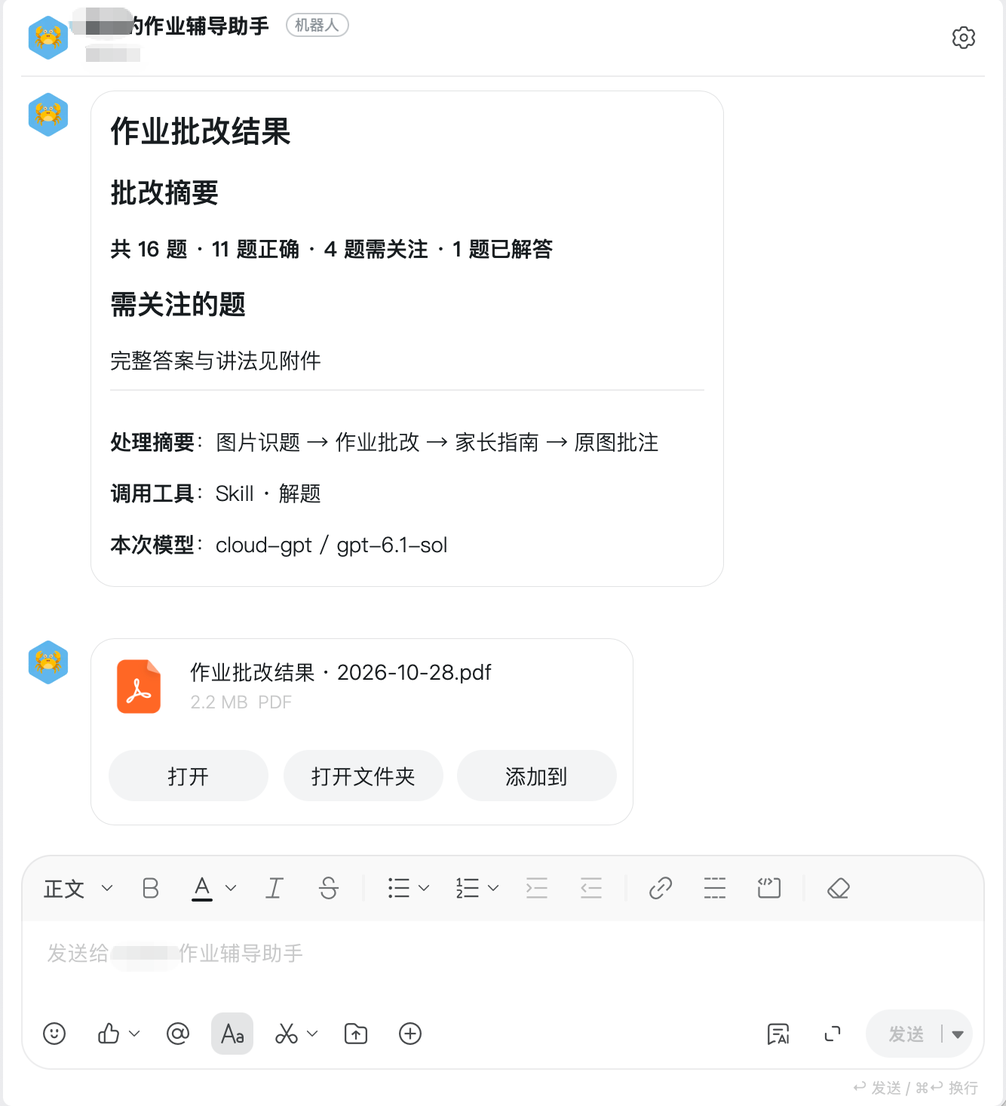
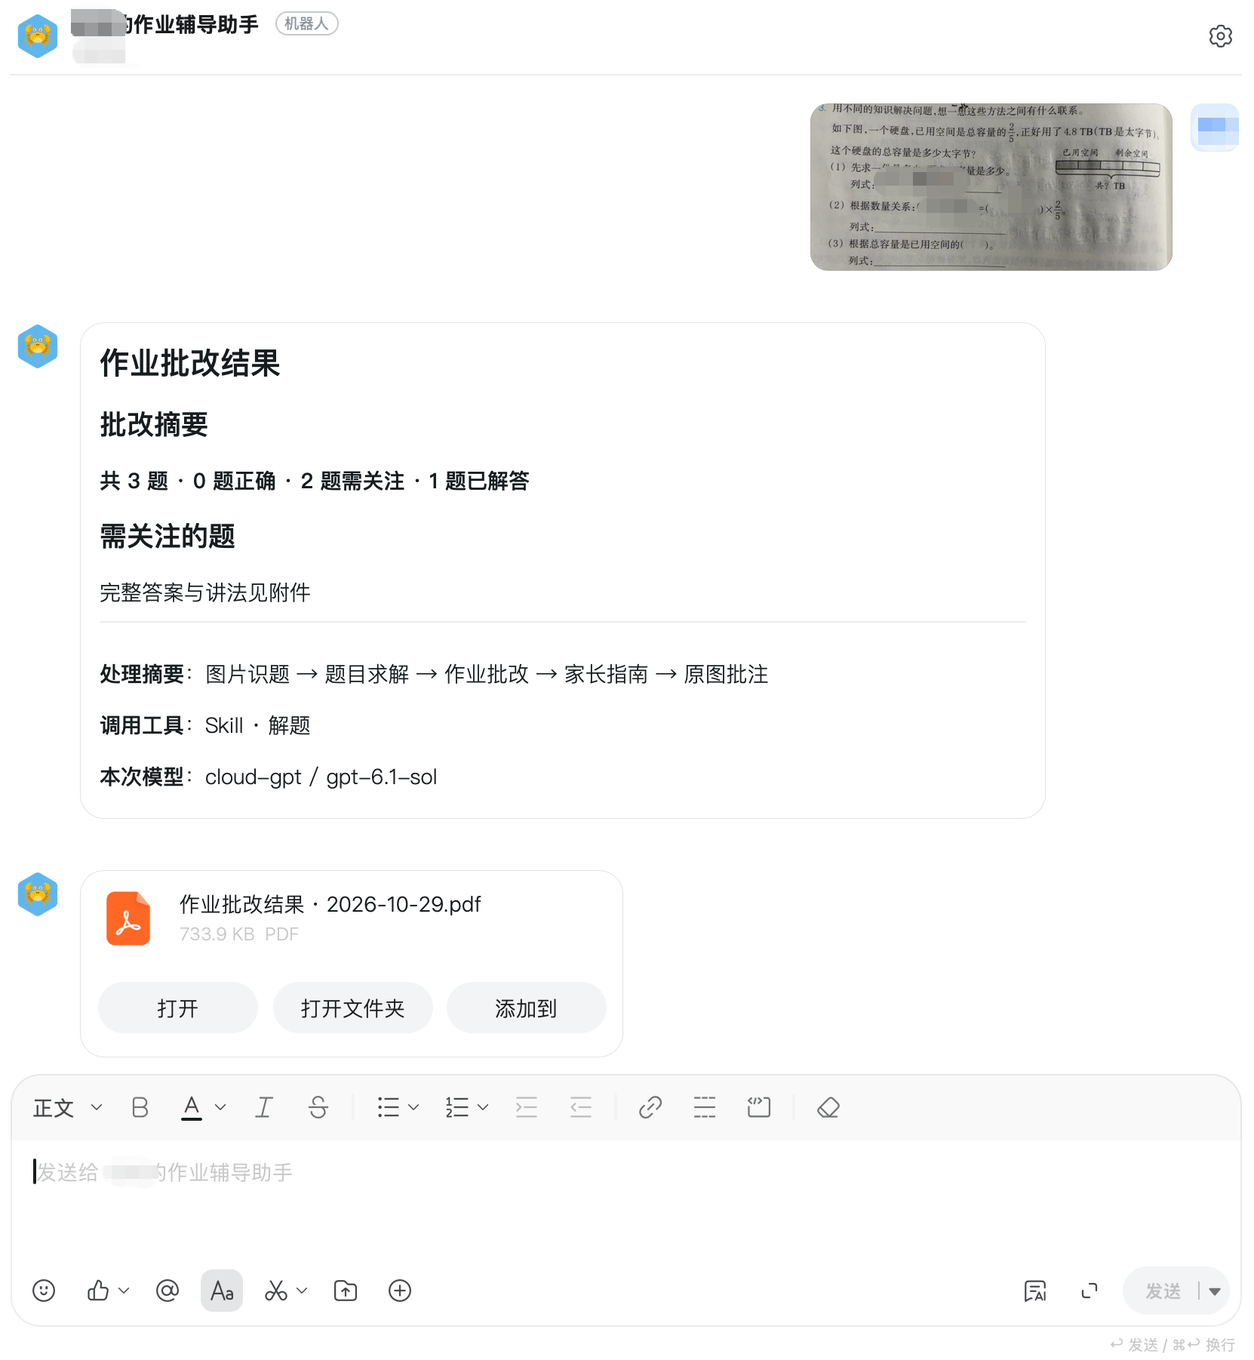
fix(blog): 更新K12批改结果与图片
按最新钉钉截图更新三语附件大小及图片尺寸，保留原图并刷新图片缓存版本。

diff --git a/ug/blog/k12-fraction-case.html b/ug/blog/k12-fraction-case.html
@@ -113,8 +113,8 @@
 </blockquote>
 <h2 style="font-size: 18px; font-weight: 700; color:var(--article-ink, #12324c); margin: 36px 0 10px; padding-bottom: 6px; border-bottom: 2px solid #5fb3ea;">ئەمەلىي جەريان: تېلېفوندا رەسىمگە تارتىپ، بىر نەچچە مىنۇتتا چۈشەندۈرۈش دوكلاتى ئېلىش</h2>
 <p style="margin: 8px 0;">كەچتە تاپشۇرۇققا يېتەكلىگەندە، ئاتا-ئانىلارنىڭ كۆپىنچىسى كومپيۇتېرنى ئېچىپ بۇيرۇق كىرگۈزۈپ ئولتۇرمايدۇ. ئەڭ تەبىئىي ھەرىكەت — تېلېفوننى ئېلىپ رەسىمگە تارتىش ۋە شەخسىي پاراڭغا ئەۋەتىش.</p>
-<p style="margin: 8px 0;">ئەمەلىي ئىشلىتىشتە، ھېشى AI ئادەتتىكى پاراڭ ماشىنىسىدەك ئالدىراپلا شۇئان تېكىست جاۋاب قايتۇرمايدۇ. تاپشۇرۇق رەسىمى ئەۋەتىلگەندىن كېيىن، ياردەمچى ئالدى بىلەن <strong>«تەكشۈرۈۋاتىدۇ…»</strong> دەپ جاۋاب بېرىدۇ. ئارقا سۇپىدىكى كۆپ باسقۇچلۇق ئويلاش تاماملانغاندىن كېيىن، DingTalk پاراڭ كۆزنىكىدە قۇرۇلمىلىق تەكشۈرۈش خۇلاسە كارتىسى كۆرۈنىدۇ ھەمدە 3.7 MB لىق يۇقىرى ئېنىقلىقتىكى چۈشەندۈرۈش PDF ھۆججىتى بىللە كېلىدۇ:</p>
-<figure style="text-align: center; margin: 18px 0 6px;"><img style="display: block; max-width: 100%; height: auto; margin: 0 auto; border: 1px solid var(--article-border, #d8e6f0); border-radius: 6px; box-sizing: border-box;" src="../../assets/blog/k12-fraction-case/dingtalk-grading.png" width="1334" height="1466" loading="lazy" decoding="async" alt="DingTalk شەخسىي پاراڭدىكى تەكشۈرۈش نەتىجىسى: تەكشۈرۈش خۇلاسىسى ۋە تاپشۇرۇق نەتىجىسى PDF قوشۇمچىسى"><figcaption style="text-align: center; font-size: 13px; color:var(--article-secondary, #5f7b9c); margin: 0 0 18px; line-height: 1.6;">DingTalk تا تاپشۇرۇۋېلىنغان دەسلەپكى نەتىجە: 3 سوئالنىڭ 2 سىگە دىققەت قىلىش كېرەك، 1 ىگە يېشىم بېرىلگەن؛ 3.7 MB لىق تولۇق چۈشەندۈرۈش دوكلاتىمۇ ھاسىل قىلىنغان.</figcaption></figure>
+<p style="margin: 8px 0;">ئەمەلىي ئىشلىتىشتە، ھېشى AI ئادەتتىكى پاراڭ ماشىنىسىدەك ئالدىراپلا شۇئان تېكىست جاۋاب قايتۇرمايدۇ. تاپشۇرۇق رەسىمى ئەۋەتىلگەندىن كېيىن، ياردەمچى ئالدى بىلەن <strong>«تەكشۈرۈۋاتىدۇ…»</strong> دەپ جاۋاب بېرىدۇ. ئارقا سۇپىدىكى كۆپ باسقۇچلۇق ئويلاش تاماملانغاندىن كېيىن، DingTalk پاراڭ كۆزنىكىدە قۇرۇلمىلىق تەكشۈرۈش خۇلاسە كارتىسى كۆرۈنىدۇ ھەمدە 733.9 KB لىق يۇقىرى ئېنىقلىقتىكى چۈشەندۈرۈش PDF ھۆججىتى بىللە كېلىدۇ:</p>
+<figure style="text-align: center; margin: 18px 0 6px;"><img style="display: block; max-width: 100%; height: auto; margin: 0 auto; border: 1px solid var(--article-border, #d8e6f0); border-radius: 6px; box-sizing: border-box;" src="../../assets/blog/k12-fraction-case/dingtalk-grading.png?v=f82de6f0872a" width="1662" height="1802" loading="lazy" decoding="async" alt="DingTalk شەخسىي پاراڭدىكى تەكشۈرۈش نەتىجىسى: تەكشۈرۈش خۇلاسىسى ۋە تاپشۇرۇق نەتىجىسى PDF قوشۇمچىسى"><figcaption style="text-align: center; font-size: 13px; color:var(--article-secondary, #5f7b9c); margin: 0 0 18px; line-height: 1.6;">DingTalk تا تاپشۇرۇۋېلىنغان دەسلەپكى نەتىجە: 3 سوئالنىڭ 2 سىگە دىققەت قىلىش كېرەك، 1 ىگە يېشىم بېرىلگەن؛ 733.9 KB لىق تولۇق چۈشەندۈرۈش دوكلاتىمۇ ھاسىل قىلىنغان.</figcaption></figure>
 <p style="margin: 8px 0;">كارتىنىڭ ئاستىدىكى بىر تەرەپ قىلىش ئىزىغا دىققەت قىلىڭ: <strong>«بىر تەرەپ قىلىش خۇلاسىسى: رەسىمدىن سوئالنى تونۇش → سوئالنى يېشىش → تاپشۇرۇقنى تەكشۈرۈش → ئاتا-ئانا قوللانمىسى → ئەسلى رەسىمگە ئىزاھلاش»</strong>. ئاستىدا مەخسۇس مەسىلە يېشىش Skill ئىشلىتىلىدۇ. بۇ نېمىشقا بىر قېتىملىق Completion نىڭ تېكىست چىقىرىشىدەك ئەمەس، بەلكى ئىككى-ئۈچ مىنۇت ئويلاشنى تەلەپ قىلىدۇ؟ چۈنكى ئارقا سۇپىدا زىچ باغلانغان بىر پۈتۈن جەريان ئىجرا بولىدۇ:</p>
 <figure style="text-align: center; margin: 18px 0 6px;"><img style="display: block; max-width: 100%; height: auto; margin: 0 auto; border-radius: 6px; box-sizing: border-box;" src="../../assets/blog/k12-fraction-case/pipeline-flow.png" width="1800" height="520" loading="lazy" decoding="async" alt="ھېشى AI نىڭ ماس قەدەمسىز تاپشۇرۇق تەكشۈرۈش جەريانى: رەسىم ئەۋەتىش، كۆرۈنۈش رايونىنى ئايرىش، چەكلىمە ئىچىدە يېشىش، ئوقۇتۇش ئۇسۇلى ھاسىل قىلىش ۋە ۋېكتورلۇق بەتلەش ئارقىلىق يەتكۈزۈش"><figcaption style="text-align: center; font-size: 13px; color:var(--article-secondary, #5f7b9c); margin: 0 0 18px; line-height: 1.6;">ئارقا سۇپىدىكى ماس قەدەمسىز جەريان: كۆپ موداللىق رايون ئايرىپ سوئال تونۇش، دەرس ئۆلچىمىگە ماس يېشىش، دەلىلگە تايانغان ئوقۇتۇش قوللانمىسى ۋە Typst ۋېكتورلۇق بەتلەش.</figcaption></figure>
 <p style="margin: 8px 0;">پۈتۈن ئىنژېنېرلىق زەنجىرى بەش قەدەمگە بۆلۈنىدۇ:</p>
@@ -123,7 +123,7 @@
 <li style="margin: 6px 0;"><strong>دەرس ئۆلچىمى چەكلىمىسىدە يېشىش ۋە قايتا تەكشۈرۈش:</strong> باشلانغۇچ مەكتەپ ئالتىنچى سىنىپ بىلىم دائىرىسىدە چەكلىنىدۇ، قەدەم ئاتلاش ياكى ئوتتۇرا مەكتەپنىڭ يۇقىرى دەرىجىلىك ئالگېبراسىنى ئىشلىتىشكە يول قويۇلمايدۇ؛ يېشىش قورالى مۇستەقىل سېلىشتۇرۇپ تەكشۈرىدۇ؛</li>
 <li style="margin: 6px 0;"><strong>تاپشۇرۇقنى باھالاش:</strong> «تەكشۈرۈش كېرەك» بىلەن «يېشىم بېرىلدى» نى ئايرىپ، بالىنىڭ يېرىم يولغىچە داۋاملاشقان ئويىنى قوغدايدۇ، مېخانىكىلىق قىزىل خاتالىق بەلگىسى قويمايدۇ؛</li>
 <li style="margin: 6px 0;"><strong>دەلىلگە تايانغان ئوقۇتۇش قوللانمىسى ھاسىل قىلىش:</strong> K12 ئوقۇتۇش Skill نى چاقىرىپ، سان بىلەن شەكىلنى باغلايدىغان سىزما ۋە سوقراتچە داۋاملىق سوئاللارنى ئاپتوماتىك ئورۇنلاشتۇرىدۇ؛</li>
-<li style="margin: 6px 0;"><strong>ئەسلى رەسىمگە ئىزاھلاش، ۋېكتورلۇق بەتلەش ۋە يەتكۈزۈش:</strong> تاپشۇرۇقنىڭ ئەسلى رەسىمىگە تەكشۈرۈش ئىزلىرىنى قويىدۇ، ئاندىن Typst بەتلەش ماتورى تېكىست بىلەن رەسىمنى 3.7 MB لىق يۇقىرى ئېنىقلىقتىكى PDF كە تۈزۈپ، خۇلاسە كارتىسى بىلەن بىللە DingTalk قا قايتۇرىدۇ.</li>
+<li style="margin: 6px 0;"><strong>ئەسلى رەسىمگە ئىزاھلاش، ۋېكتورلۇق بەتلەش ۋە يەتكۈزۈش:</strong> تاپشۇرۇقنىڭ ئەسلى رەسىمىگە تەكشۈرۈش ئىزلىرىنى قويىدۇ، ئاندىن Typst بەتلەش ماتورى تېكىست بىلەن رەسىمنى 733.9 KB لىق يۇقىرى ئېنىقلىقتىكى PDF كە تۈزۈپ، خۇلاسە كارتىسى بىلەن بىللە DingTalk قا قايتۇرىدۇ.</li>
 </ul>
 <p style="margin: 8px 0;">كارتىدىكى باھالاش تەپسىلاتىغا يەنە قاراڭ: <strong>«جەمئىي 3 سوئال · 0 سوئال توغرا · 2 سوئالغا دىققەت كېرەك · 1 سوئالغا يېشىم بېرىلدى»</strong>. نېمىشقا بىۋاسىتە چوڭ قىزىل خاتالىق بەلگىسى قويۇلمايدۇ؟ چۈنكى بالا قارىلاش قەغىزىگە خالىغانچە يېزىۋەتمىگەن؛ ئۇنىڭ يېشىش لوگىكىسى يېرىم يولغا يەتكەن.</p>
 <p style="margin: 8px 0;">چوڭ مودېل پاراڭ كۆزنىكىگە ئون نەچچە قۇرلۇق Markdown تېكىستىنى تولدۇرۇپ قويسا، ئاتا-ئانىنىڭ تار تېلېفون ئېكرانىدا ئۈستى-ئاستىغا سىيرىپ ئىزدىشى قىيىن. بىر قولدا تېلېفون تۇتۇپ، يەنە بىر قولدا قەلەم بىلەن بالىغا سوئالنى كۆرسىتىش ئاسان ئەمەس. ئەسلى رەسىم ئىزاھى، دەرىجىگە بۆلۈنگەن يېشىم ۋە سوئال سوراش سۆزلىرىنى بىۋاسىتە ئۆلچەملىك ئىككى بەتلىك PDF كە تۈزۈپ بەرسە، ئاتا-ئانا ئېچىپلا بىر قولدا تۇتۇپ دەرس تەييارلىيالايدۇ، يېتەكلەش رېتىمىمۇ بۇزۇلمايدۇ.</p>

diff --git a/en/blog/k12-fraction-case.html b/en/blog/k12-fraction-case.html
@@ -113,8 +113,8 @@
 </blockquote>
 <h2 style="font-size: 18px; font-weight: 700; color:var(--article-ink, #12324c); margin: 36px 0 10px; padding-bottom: 6px; border-bottom: 2px solid #5fb3ea;">At the scene: take a photo and receive a lesson report a few minutes later</h2>
 <p style="margin: 8px 0;">When helping with homework in the evening, few parents sit down at a computer and type commands. The natural action is to take a photo with a phone and send it in a private chat.</p>
-<p style="margin: 8px 0;">In the actual experience, HexClaw does not behave like a generic chatbot that instantly dashes off a text reply. After the homework photo arrives, the assistant first sends <strong>“Grading…”</strong>. Once the background process finishes its multiple reasoning stages, the DingTalk conversation receives a structured grading-summary card, together with a 3.7 MB, high-resolution lesson PDF:</p>
-<figure style="text-align: center; margin: 18px 0 6px;"><img style="display: block; max-width: 100%; height: auto; margin: 0 auto; border: 1px solid var(--article-border, #d8e6f0); border-radius: 6px; box-sizing: border-box;" src="../../assets/blog/k12-fraction-case/dingtalk-grading.png" width="1334" height="1466" loading="lazy" decoding="async" alt="Grading feedback in a DingTalk private chat: a summary and a homework-grading PDF attachment"><figcaption style="text-align: center; font-size: 13px; color:var(--article-secondary, #5f7b9c); margin: 0 0 18px; line-height: 1.6;">The initial result received in DingTalk: of three questions, two need attention and one has a provided solution, with a complete 3.7 MB lesson report.</figcaption></figure>
+<p style="margin: 8px 0;">In the actual experience, HexClaw does not behave like a generic chatbot that instantly dashes off a text reply. After the homework photo arrives, the assistant first sends <strong>“Grading…”</strong>. Once the background process finishes its multiple reasoning stages, the DingTalk conversation receives a structured grading-summary card, together with a 733.9 KB, high-resolution lesson PDF:</p>
+<figure style="text-align: center; margin: 18px 0 6px;"><img style="display: block; max-width: 100%; height: auto; margin: 0 auto; border: 1px solid var(--article-border, #d8e6f0); border-radius: 6px; box-sizing: border-box;" src="../../assets/blog/k12-fraction-case/dingtalk-grading.png?v=f82de6f0872a" width="1662" height="1802" loading="lazy" decoding="async" alt="Grading feedback in a DingTalk private chat: a summary and a homework-grading PDF attachment"><figcaption style="text-align: center; font-size: 13px; color:var(--article-secondary, #5f7b9c); margin: 0 0 18px; line-height: 1.6;">The initial result received in DingTalk: of three questions, two need attention and one has a provided solution, with a complete 733.9 KB lesson report.</figcaption></figure>
 <p style="margin: 8px 0;">Look closely at the processing trace at the bottom of the card: <strong>“Processing summary: recognize questions from the image → solve the questions → grade the homework → prepare the parent guide → annotate the original image.”</strong> A dedicated problem-solving Skill runs underneath. Why does this take two or three minutes of reasoning, rather than a single Completion producing text? Because the background process runs a closely connected pipeline:</p>
 <figure style="text-align: center; margin: 18px 0 6px;"><img style="display: block; max-width: 100%; height: auto; margin: 0 auto; border-radius: 6px; box-sizing: border-box;" src="../../assets/blog/k12-fraction-case/pipeline-flow.png" width="1800" height="520" loading="lazy" decoding="async" alt="HexClaw’s asynchronous homework-grading pipeline: send the image, locate visual regions, solve within constraints, generate teaching guidance, and deliver vector typesetting"><figcaption style="text-align: center; font-size: 13px; color:var(--article-secondary, #5f7b9c); margin: 0 0 18px; line-height: 1.6;">The asynchronous background pipeline: multimodal region-based question recognition, curriculum-constrained solving, evidence-informed teaching guidance, and Typst vector typesetting.</figcaption></figure>
 <p style="margin: 8px 0;">The engineering chain has five steps:</p>
@@ -123,7 +123,7 @@
 <li style="margin: 6px 0;"><strong>Solve and verify within curriculum constraints:</strong> stay within sixth-grade primary-school knowledge, without skipping steps or using advanced middle-school algebra, and have the solver cross-check independently.</li>
 <li style="margin: 6px 0;"><strong>Grade the homework:</strong> distinguish “Needs checking” from “Solution provided,” preserve the reasoning a child has already begun, and avoid mechanically marking it with a red cross.</li>
 <li style="margin: 6px 0;"><strong>Generate evidence-informed teaching guidance:</strong> invoke the K12 teaching Skill to arrange tape diagrams and Socratic follow-up questions automatically.</li>
-<li style="margin: 6px 0;"><strong>Annotate, typeset, and deliver:</strong> mark the original homework image, then use the Typst typesetting engine to compile the text and images into a high-resolution 3.7 MB PDF and send it back to DingTalk with the summary card.</li>
+<li style="margin: 6px 0;"><strong>Annotate, typeset, and deliver:</strong> mark the original homework image, then use the Typst typesetting engine to compile the text and images into a high-resolution 733.9 KB PDF and send it back to DingTalk with the summary card.</li>
 </ul>
 <p style="margin: 8px 0;">Now look at the grading details: <strong>“3 questions in total · 0 correct · 2 need attention · 1 solution provided.”</strong> Why not simply use a large red cross? The child’s draft is not random scribbling. Their reasoning has already made it halfway.</p>
 <p style="margin: 8px 0;">If a model fills the chat with dozens of Markdown lines, parents have to scroll up and down a narrow phone screen to find the relevant part. It is difficult to hold the phone in one hand and point to a question with a pen in the other. Compiling the annotated image, layered solutions, and suggested questions into a standard two-page PDF lets parents open it and prepare the explanation one-handed, without disrupting the tutoring session.</p>

diff --git a/zh/blog/k12-fraction-case.html b/zh/blog/k12-fraction-case.html
@@ -117,11 +117,11 @@
 
 <h2 style="font-size: 18px; font-weight: 700; color:var(--article-ink, #12324c); margin: 36px 0 10px; padding-bottom: 6px; border-bottom: 2px solid #5fb3ea;">第一现场：手机拍张照，几分钟收到一份讲题报告</h2>
 <p style="margin: 8px 0;">晚上辅导作业，很少有家长会正襟危坐打开电脑敲命令。最真实的动作就是掏出手机拍张照，甩进私聊里。</p>
-<p style="margin: 8px 0;">在实际体验中，河蟹 AI 并不是那种泛化聊天机器人草率秒回文字——拍下作业图发过去后，助手会先回复一条<strong>“批改中……”</strong>。后台跑完多阶段推演后，钉钉对话框里会弹出一张结构化的批改摘要卡片，并直接附带一份 3.7 MB 的高清讲题 PDF：</p>
+<p style="margin: 8px 0;">在实际体验中，河蟹 AI 并不是那种泛化聊天机器人草率秒回文字——拍下作业图发过去后，助手会先回复一条<strong>“批改中……”</strong>。后台跑完多阶段推演后，钉钉对话框里会弹出一张结构化的批改摘要卡片，并直接附带一份 733.9 KB 的高清讲题 PDF：</p>
 
 
 
-<figure style="text-align: center; margin: 18px 0 6px;"><img width="1334" height="1466" loading="lazy" decoding="async" src="../../assets/blog/k12-fraction-case/dingtalk-grading.png" alt="钉钉私聊中的批改反馈：批改摘要与作业批改结果 PDF 附件" style="display: block; max-width: 100%; height: auto; margin: 0 auto; border: 1px solid var(--article-border, #d8e6f0); border-radius: 6px; box-sizing: border-box;"><figcaption style="text-align: center; font-size: 13px; color:var(--article-secondary, #5f7b9c); margin: 0 0 18px; line-height: 1.6;">钉钉端接收的第一现场：3 题中识别出 2 题需关注、1 题已解答，并生成 3.7 MB 的完整讲题报告。</figcaption></figure>
+<figure style="text-align: center; margin: 18px 0 6px;"><img width="1662" height="1802" loading="lazy" decoding="async" src="../../assets/blog/k12-fraction-case/dingtalk-grading.png?v=f82de6f0872a" alt="钉钉私聊中的批改反馈：批改摘要与作业批改结果 PDF 附件" style="display: block; max-width: 100%; height: auto; margin: 0 auto; border: 1px solid var(--article-border, #d8e6f0); border-radius: 6px; box-sizing: border-box;"><figcaption style="text-align: center; font-size: 13px; color:var(--article-secondary, #5f7b9c); margin: 0 0 18px; line-height: 1.6;">钉钉端接收的第一现场：3 题中识别出 2 题需关注、1 题已解答，并生成 733.9 KB 的完整讲题报告。</figcaption></figure>
 
 <p style="margin: 8px 0;">仔细看卡片底部的处理轨迹：<strong>“处理摘要：图片识题 → 题目求解 → 作业批改 → 家长指南 → 原图批注”</strong>，底层调用专用解题 Skill。为什么这不是一次单步 Completion 文本吐字，而是需要两三分钟推演？因为后台执行的是一套严密的闭环流水线：</p>
 
@@ -134,7 +134,7 @@
 <li style="margin: 6px 0;"><strong>课标约束求解与验算：</strong>限定在小学六年级知识域内（禁止跳步或用初中高阶代数），由求解器独立交叉验算；</li>
 <li style="margin: 6px 0;"><strong>作业批改判卷：</strong>细分“待核对”与“已解答”，保护孩子的半程推导火花，不机械打红叉；</li>
 <li style="margin: 6px 0;"><strong>循证教学指南生成：</strong>调用 K12 教学 Skill，自动编排数形结合线段图示与苏格拉底式追问台词；</li>
-<li style="margin: 6px 0;"><strong>原图批注、矢量排版与推送：</strong>在作业原图上标注批改痕迹，再由 Typst 排版引擎将图文编译为一份 3.7 MB 的高清 PDF，连同摘要卡片推回钉钉。</li>
+<li style="margin: 6px 0;"><strong>原图批注、矢量排版与推送：</strong>在作业原图上标注批改痕迹，再由 Typst 排版引擎将图文编译为一份 733.9 KB 的高清 PDF，连同摘要卡片推回钉钉。</li>
 </ul>
 
 <p style="margin: 8px 0;">再看卡片里的判卷细节：<strong>“共 3 题 · 0 题正确 · 2 题需关注 · 1 题已解答”</strong>。为什么不直接打大红叉？因为孩子在草稿纸上并不是胡写，他的解题逻辑其实已经走完了一半。</p>
